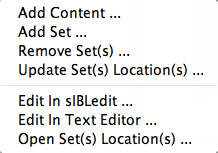
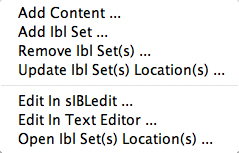
Update "sIBL_GUI Manual" help file.

diff --git a/src/support/documentation/help/sIBL_GUI Manual.html b/src/support/documentation/help/sIBL_GUI Manual.html
@@ -332,13 +332,17 @@
 				<td><img src="resources/pictures/sIBL_GUI_DatabaseBrowser.jpg" title="sIBL_GUI_DatabaseBrowser" alt="sIBL_GUI_DatabaseBrowser" /></td>
 			</tr>
 		</table>
-		<p>The Database Browser component is the central component where Ibl sets are viewed and chosen for export. The component is tracking the Ibl sets files on the disk and reload them automatically when modified.</p>
+		<p>The Database Browser component is the central component where Ibl Sets are viewed and chosen for export. The component is tracking the Ibl Sets files on the disk and reload them automatically when modified.</p>
 		<p>Interactions :</p>
 		<ul>
 			<li><strong>Right clic</strong> : Displays a context menu described further.</li>
-			<li><strong>Drag&#8217;n&#8217;drop</strong> : Drag&#8217;n&#8217;dropping an Ibl sets selection from the Database Browser component to a Collections Outliner component collection change the selected sets collection.</li>
+			<li><strong>Drag&#8217;n&#8217;drop</strong> :
+		<ul>
+			<li>Drag&#8217;n&#8217;dropping an Ibl Sets selection from the Database Browser component to a Collections Outliner component collection change the selected sets collection.</li>
+			<li>Drag&#8217;n&#8217;dropping some Ibl Sets files or folders from the Os will raise a message box asking confirmation for their addition into the database.</li>
+		</ul></li>
 			<li><strong>Hovering</strong> : Hovering an Ibl Set raises a popup with informations about the focused set.</li>
-			<li><strong>Thumbnails Size Horizontal Slider</strong> : Adjusts Ibl sets icons size.</li>
+			<li><strong>Thumbnails Size Horizontal Slider</strong> : Adjusts Ibl Sets icons size.</li>
 		</ul>
 		<p>Context Menu :</p>
 		<table style="border-collapse : collapse; border-width : 1px; border-style : solid; border-color : gray;" class="class" id="id">
@@ -347,16 +351,16 @@
 			</tr>
 		</table>
 		<ul>
-			<li><strong>Add Content &#8230;</strong> : Recursively adds chosen directory Ibl sets into the database assigning them to the selected Collections Outliner component collection or the Default Collection if none is selected.</li>
-			<li><strong>Add Set &#8230;</strong> : Adds the selected Ibl sets file into the database assigning it to the selected Collections Outliner component collection or the Default Collection if none is selected.</li>
-			<li><strong>Remove Set(s) ...</strong> : Removes selected Ibl sets from the database.</li>
-			<li><strong>Update Set(s) Location(s) ...</strong> : Updates selected Ibl sets files paths.</li>
+			<li><strong>Add Content &#8230;</strong> : Recursively adds chosen directory Ibl Sets into the database assigning them to the selected Collections Outliner component collection or the Default Collection if none is selected.</li>
+			<li><strong>Add Set &#8230;</strong> : Adds the selected Ibl Sets file into the database assigning it to the selected Collections Outliner component collection or the Default Collection if none is selected.</li>
+			<li><strong>Remove Set(s) ...</strong> : Removes selected Ibl Sets from the database.</li>
+			<li><strong>Update Set(s) Location(s) ...</strong> : Updates selected Ibl Sets files paths.</li>
 		</ul>
 	Addons Functionalities :
 		<ul>
-			<li><strong>Edit In sIBLedit &#8230;</strong> : Sends selected Ibl set to sIBLedit.</li>
-			<li><strong>Edit In Text Editor &#8230;</strong> : Edits selected Ibl sets with system or custom user defined text editor.</li>
-			<li><strong>Open Set(s) Location(s) ...</strong> : Opens selected Ibl sets folders.</li>
+			<li><strong>Edit In sIBLedit &#8230;</strong> : Sends selected Ibl Set to sIBLedit.</li>
+			<li><strong>Edit In Text Editor &#8230;</strong> : Edits selected Ibl Sets with system or custom user defined text editor.</li>
+			<li><strong>Open Set(s) Location(s) ...</strong> : Opens selected Ibl Sets folders.</li>
 		</ul>
 		<h3 style="text-align:center;">***</h3>
 		<p><strong style="font-size : 12pt;" id="core.collectionsOutliner">Collections Outliner</strong> ( core.collectionsOutliner )</p>
@@ -365,12 +369,16 @@
 				<td><img src="resources/pictures/sIBL_GUI_CollectionsOutliner.jpg" title="sIBL_GUI_CollectionsOutliner" alt="sIBL_GUI_CollectionsOutliner" /></td>
 			</tr>
 		</table>
-		<p>The Collections Outliner component is where the Ibl sets are organized into collections for better management. There is a Default Collection where Ibl sets fall when they are added without a specific collection container.</p>
+		<p>The Collections Outliner component is where the Ibl Sets are organized into collections for better management. There is a Default Collection where Ibl Sets fall when they are added without a specific collection container.</p>
 		<p>Interactions :</p>
 		<ul>
 			<li><strong>Double clic</strong> : Edits collection name or comment.</li>
 			<li><strong>Right clic</strong> : Displays a context menu described further.</li>
-			<li><strong>Drag&#8217;n&#8217;drop</strong> : Drag&#8217;n&#8217;dropping an Ibl sets selection from the Database Browser component to a Collections Outliner component collection change sets current collection.</li>
+			<li><strong>Drag&#8217;n&#8217;drop</strong> : 
+		<ul>
+			<li>Drag&#8217;n&#8217;dropping an Ibl Sets selection from the Database Browser component to a Collections Outliner component collection change sets current collection.</li>
+			<li>Drag&#8217;n&#8217;dropping some Ibl Sets files or folders from the Os will raise a message box asking confirmation for their addition into the database.</li>
+		</ul></li>
 		</ul>
 		<p>Columns Descriptions :</p>
 		<ul>
@@ -385,7 +393,7 @@
 			</tr>
 		</table>
 		<ul>
-			<li><strong>Add Content &#8230;</strong> : Adds a new collection, then recursively adds chosen directory Ibl sets into the database, assigning them to the new collection. </li>
+			<li><strong>Add Content &#8230;</strong> : Adds a new collection, then recursively adds chosen directory Ibl Sets into the database, assigning them to the new collection. </li>
 			<li><strong>Add Collection &#8230;</strong> : Adds a new collection to the database.</li>
 			<li><strong>Remove Collection(s) ...</strong> : Removes selected collections from the database ( Overall and Default Collections cannot be removed ).</li>
 		</ul>
@@ -419,6 +427,10 @@
 		<p>Interactions :</p>
 		<ul>
 			<li><strong>Right clic</strong> : Displays a context menu described further.</li>
+			<li><strong>Drag&#8217;n&#8217;drop</strong> : 
+		<ul>
+			<li>Drag&#8217;n&#8217;dropping some Templates files or folders from the Os will raise a message box asking confirmation for their addition into the database.</li>
+		</ul></li>
 		</ul>
 		<p>Context Menu :</p>
 		<table style="border-collapse : collapse; border-width : 1px; border-style : solid; border-color : gray;" class="class" id="id">
@@ -456,7 +468,7 @@
 				<td><img src="resources/pictures/sIBL_GUI_GpsMap.jpg" title="sIBL_GUI_GpsMap" alt="sIBL_GUI_GpsMap" /></td>
 			</tr>
 		</table>
-		<p>The Gps Map component is embedding a Google Map into sIBL_GUI : Selecting some Ibl sets ( Sets with <span class="caps">GEO</span> coordinates ) in the Database Browser component will display their markers onto the Gps Map.</p>
+		<p>The Gps Map component is embedding a Google Map into sIBL_GUI : Selecting some Ibl Sets ( Sets with <span class="caps">GEO</span> coordinates ) in the Database Browser component will display their markers onto the Gps Map.</p>
 		<p>Interactions :</p>
 		<ul>
 			<li><strong>Zoom In Push Button</strong> : Zooms into the Gps Map.</li>
@@ -476,7 +488,7 @@
 				<td><img src="resources/pictures/sIBL_GUI_LoaderScript.jpg" title="sIBL_GUI_LoaderScript" alt="sIBL_GUI_LoaderScript" /></td>
 			</tr>
 		</table>
-		<p>The Loader Script component is providing the bridge between sIBL_GUI and the 3d packages. It parses the selected Ibl set, extracts datas from it, and feeds the selected template with those datas resulting in a loader script that can be executed by the 3d package.</p>
+		<p>The Loader Script component is providing the bridge between sIBL_GUI and the 3d packages. It parses the selected Ibl Set, extracts datas from it, and feeds the selected template with those datas resulting in a loader script that can be executed by the 3d package.</p>
 		<p>Interactions :</p>
 		<ul>
 			<li><strong>Output Loader Script Push Button</strong> : Outputs the loader script to the output folder.</li>
@@ -607,7 +619,7 @@
 				<td><img src="resources/pictures/sIBL_GUI_RewiringTool.jpg" title="sIBL_GUI_RewiringTool" alt="sIBL_GUI_RewiringTool" /></td>
 			</tr>
 		</table>
-		<p>The Rewiring Tool component is available by right clicking the main toolbar. This component allows rewiring / remapping of an Ibl set file to another file of that set or an arbitrary image. This widget is powerful because it&#8217;s possible to dynamically generate <span class="caps">IBL</span> sets and arbitrary load whatever <span class="caps">HDR</span> you want and still benefit from sIBL_GUI one click lighting setup.</p>
+		<p>The Rewiring Tool component is available by right clicking the main toolbar. This component allows rewiring / remapping of an Ibl Set file to another file of that set or an arbitrary image. This widget is powerful because it&#8217;s possible to dynamically generate <span class="caps">IBL</span> sets and arbitrary load whatever <span class="caps">HDR</span> you want and still benefit from sIBL_GUI one click lighting setup.</p>
 		<p>Interactions :</p>
 		<ul>
 			<li><strong>Combo Boxes</strong> : The current image will be remapped to the chosen entry.</li>
@@ -646,7 +658,7 @@
 		</ul></p>
 		<h3 style="text-align:center;">***</h3>
 		<p><strong style="font-size : 12pt;" id="addons.setsScanner">Sets Scanner</strong> ( addons.setsScanner )</p>
-		<p>The Sets Scanner component is a file scanning component that will automatically register any new sets to the Default Collection whenever it founds one in an already existing Ibl sets parent folder. This behavior can be stopped by deactivating the component.</p>
+		<p>The Sets Scanner component is a file scanning component that will automatically register any new sets to the Default Collection whenever it founds one in an already existing Ibl Sets parent folder. This behavior can be stopped by deactivating the component.</p>
 		<h3 style="text-align:center;">***</h3>
 		<p><strong style="font-size : 12pt;" id="addons.sIBLeditUtilities">sIBLedit Utilities</strong> ( addons.sIBLeditUtilities )</p>
 		<table style="border-collapse : collapse; border-width : 1px; border-style : solid; border-color : gray;" class="class" id="id">
